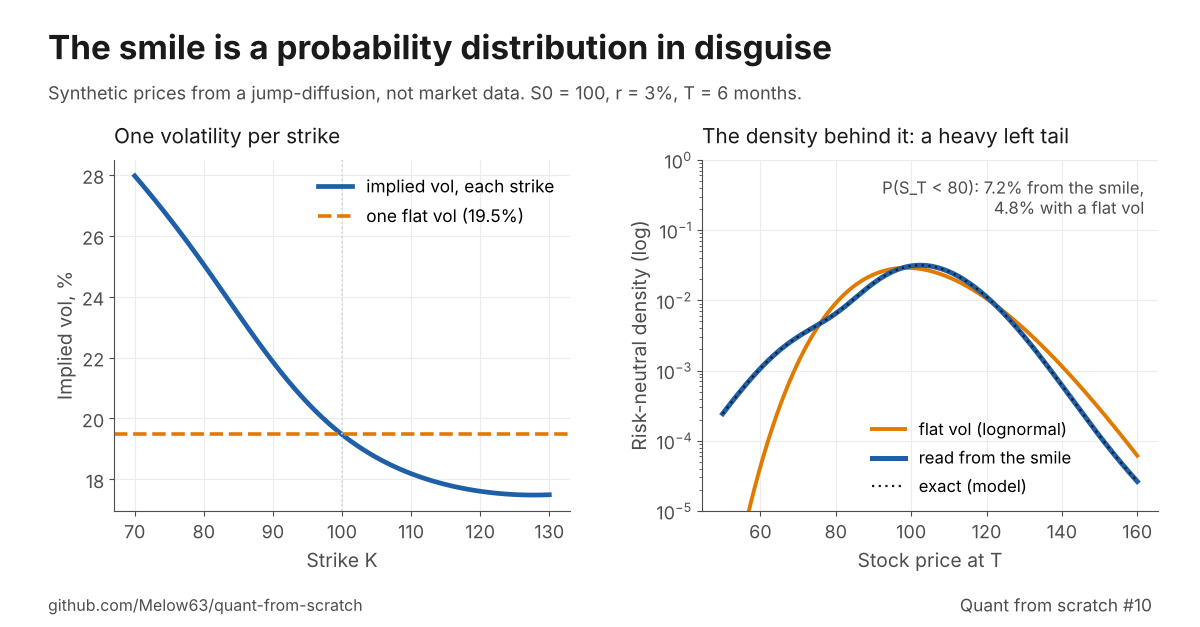
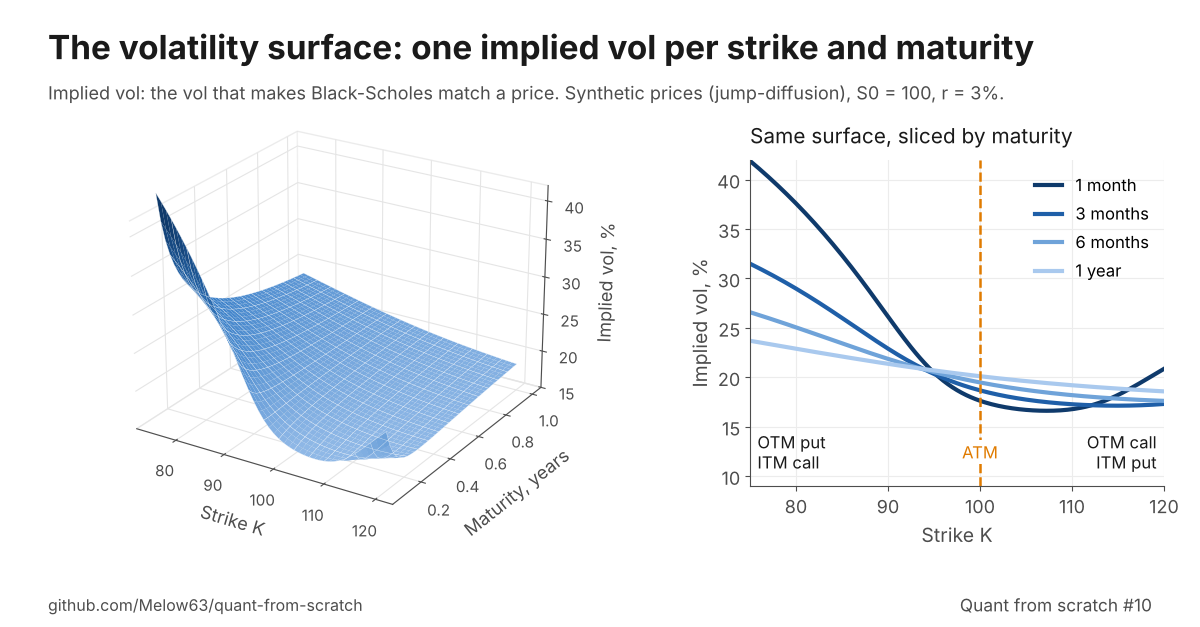
Day 10 charts: volatility surface with smile by maturity, and the smile-to-density chart

diff --git a/plots_week2.py b/plots_week2.py
@@ -548,7 +548,7 @@ def day9_delta_hedging():
 
 
 # ------------------------------------------------------------------ Day 10
-def day10_smile():
+def day10b_smile_density():
     s0, r, t = 100.0, 0.03, 0.5
     jump = dict(sigma=0.15, lam=0.5, mu_j=-0.15, sigma_j=0.15)  # Merton jump-diffusion, synthetic
     fig = landscape(
@@ -589,9 +589,109 @@ def day10_smile():
     ax2.text(0.97, 0.95, f"P(S_T < 80): {100 * p_true:.1f}% from the smile,\n{100 * p_flat:.1f}% with a flat vol",
              transform=ax2.transAxes, ha="right", va="top", fontsize=12, color=GRAY)
     title(ax2, "The density behind it: a heavy left tail")
+    return save_portrait(fig, "day10b_smile_density.png")
+
+
+def day10c_smile_tail():
+    s0, r, t = 100.0, 0.03, 0.5
+    jump = dict(sigma=0.15, lam=0.5, mu_j=-0.15, sigma_j=0.15)  # Merton jump-diffusion, synthetic
+    fig = landscape(
+        10,
+        "The smile is a probability distribution in disguise",
+        "Implied vol: the vol that makes Black-Scholes match a price. Synthetic prices, S0 = 100, r = 3%, 6 months.",
+    )
+    strikes = np.arange(40.0, 220.01, 0.5)
+    calls = merton_call(s0, strikes, r, T=t, **jump)
+    vols = implied_vols(calls, s0, strikes, r, t)
+    atm = float(implied_vol(float(merton_call(s0, 100.0, r, T=t, **jump)), s0, 100.0, r, t))
+
+    ax = panel(fig, 0.095, 0.40, bottom=0.225, height=0.52)
+    w = (strikes >= 70) & (strikes <= 130)
+    ax.plot(strikes[w], 100 * vols[w], color=BLUE, lw=3.4)
+    ax.axhline(100 * atm, color=ORANGE, lw=2.6, ls="--")
+    ax.axvline(s0, color=LGRAY, lw=1.3, ls=":")
+    ax.text(129, 100 * atm + 0.35, f"Black-Scholes: flat {100 * atm:.1f}%", fontsize=12.5, color="#b35f00", ha="right",
+            va="bottom")
+    ax.text(129, 26.2, "market: one vol\nper strike", fontsize=13, color=BLUE, va="top", ha="right")
+    ax.set_xlabel("Strike K")
+    ax.set_ylabel("Implied vol, %")
+    ax.set_ylim(17, 28.8)
+    title(ax, "What the market prices")
+
+    ax2 = panel(fig, 0.615, 0.35, bottom=0.225, height=0.52)
+    p_true = 1.0 - float(merton_exercise_probability(80.0, s0, r, T=t, **jump))
+    p_flat = 1.0 - float(norm_cdf(d1_d2(s0, 80.0, r, atm, t)[1]))
+    xs = np.arange(2)
+    ax2.bar(xs, [100 * p_flat, 100 * p_true], width=0.55, color=[ORANGE, BLUE])
+    for x, v in zip(xs, [p_flat, p_true]):
+        ax2.text(x, 100 * v + 0.22, f"{100 * v:.1f}%", ha="center", fontsize=16, fontweight="bold", color=INK)
+    ax2.set_xticks(xs)
+    ax2.set_xticklabels(["Flat vol\n(Black-Scholes)", "Read from\nthe smile"])
+    ax2.set_ylim(0, 9.2)
+    ax2.set_yticks([])
+    ax2.spines["left"].set_visible(False)
+    ax2.set_xlim(-0.6, 1.6)
+    ax2.text(1.55, 8.9, f"{p_true / p_flat:.1f} times more likely", fontsize=12.5, color=GRAY, ha="right", va="top")
+    title(ax2, "Chance the stock ends below 80")
+    return save_portrait(fig, "day10c_smile_tail.png")
+
+
+def day10_smile():
+    s0, r = 100.0, 0.03
+    jump = dict(sigma=0.15, lam=0.5, mu_j=-0.15, sigma_j=0.15)  # Merton jump-diffusion, synthetic
+    fig = landscape(
+        10,
+        "The volatility surface: one implied vol per strike and maturity",
+        "Implied vol: the vol that makes Black-Scholes match a price. Synthetic prices (jump-diffusion), S0 = 100, r = 3%.",
+    )
+    fine = np.arange(40.0, 220.01, 0.25)
+    strikes = np.arange(75.0, 120.01, 1.0)
+    maturities = np.linspace(0.08, 1.0, 40)
+    surf = np.zeros((len(maturities), len(strikes)))
+    for i, t in enumerate(maturities):
+        v = implied_vols(merton_call(s0, fine, r, T=t, **jump), s0, fine, r, t)
+        surf[i] = 100 * np.interp(strikes, fine, v)
+
+    # left: the surface in 3D
+    ax = fig.add_axes([0.0, 0.13, 0.56, 0.74], projection="3d")
+    kk, tt = np.meshgrid(strikes, maturities)
+    from matplotlib.colors import LinearSegmentedColormap
+    cmap = LinearSegmentedColormap.from_list("vol", ["#8fb8e6", "#2f78c4", "#0f3a6b"])
+    ax.plot_surface(kk, tt, surf, cmap=cmap, vmin=17, vmax=42, edgecolor="none",
+                    antialiased=True, rstride=1, cstride=1, shade=False)
+    ax.plot_wireframe(kk, tt, surf, color="white", linewidth=0.25, rstride=3, cstride=3, alpha=0.8)
+    ax.view_init(elev=24, azim=-58)
+    ax.set_xlabel("Strike K", labelpad=8, fontsize=13)
+    ax.set_ylabel("Maturity, years", labelpad=10, fontsize=13)
+    ax.set_zlabel("Implied vol, %", labelpad=6, fontsize=13)
+    ax.set_zlim(15, 42)
+    ax.tick_params(labelsize=11)
+    for axis in (ax.xaxis, ax.yaxis, ax.zaxis):
+        axis.pane.set_facecolor((1, 1, 1, 0))
+        axis.pane.set_edgecolor("#d9d9d9")
+        axis._axinfo["grid"]["color"] = "#e5e5e5"
+
+    # right: smile at four maturities
+    ax2 = panel(fig, 0.625, 0.345, bottom=0.225, height=0.52)
+    shades = {0.1: "#0f3a6b", 0.25: BLUE, 0.5: "#6fa3d9", 1.0: LBLUE}
+    names = {0.1: "1 month", 0.25: "3 months", 0.5: "6 months", 1.0: "1 year"}
+    w = (fine >= 75) & (fine <= 120)
+    for t in (0.1, 0.25, 0.5, 1.0):
+        v = implied_vols(merton_call(s0, fine, r, T=t, **jump), s0, fine, r, t)
+        ax2.plot(fine[w], 100 * v[w], color=shades[t], lw=3.0, label=names[t])
+    ax2.legend(loc="upper right", frameon=False, fontsize=12, handlelength=1.6)
+    ax2.set_xlim(75, 120)
+    ax2.set_ylim(9, 42)
+    ax2.axvline(s0, color=ORANGE, lw=1.8, ls="--")
+    ax2.text(75.8, 12.4, "OTM put\nITM call", fontsize=12, color=INK, va="center")
+    ax2.text(100.0, 12.4, "ATM", fontsize=12, color=ORANGE, va="center", ha="center", bbox=dict(fc="white", ec="none", pad=1.5))
+    ax2.text(119.2, 12.4, "OTM call\nITM put", fontsize=12, color=INK, va="center", ha="right")
+    ax2.set_xlabel("Strike K")
+    ax2.set_ylabel("Implied vol, %")
+    title(ax2, "Same surface, sliced by maturity")
     return save_portrait(fig, "day10_volatility_smile.png")
 
 
 if __name__ == "__main__":
-    for make in (day6_map, day6b_pde_numerics, day7_n_d1_d2, day8_greeks, day8_carousel, day9_delta_hedging, day9b_hedging_detail, day10_smile):
+    for make in (day6_map, day6b_pde_numerics, day7_n_d1_d2, day8_greeks, day8_carousel, day9_delta_hedging, day9b_hedging_detail, day10_smile, day10b_smile_density, day10c_smile_tail):
         print(make())

diff --git a/README.md b/README.md
@@ -29,7 +29,7 @@ checked against, Shreve the reason it works.
 | N(d1) and N(d2) | `bsm.py`, `riskneutral.py` | `charts/day7_n_d1_n_d2.png` | 15.8, 19.4, ch. 28 |
 | The Greek letters | `greeks.py` | `charts/day8_greeks_1.png` to `_3.png` (three slides, also `charts/day8_greeks_carousel.pdf`), `charts/day8_greeks.png` | 19.4 to 19.9, Table 19.6 |
 | Delta hedging | `hedging.py` | `charts/day9_delta_hedging.png`, `charts/day9b_hedging_detail.png` | 19.4, Tables 19.2 to 19.4 |
-| Volatility smiles | `impliedvol.py`, `smile.py` | `charts/day10_volatility_smile.png` | ch. 20 and appendix |
+| Volatility smiles | `impliedvol.py`, `smile.py` | `charts/day10_volatility_smile.png`, `charts/day10b_smile_density.png` | ch. 20 and appendix |
 
 ### What each module does, how it is checked, where it stops
 
